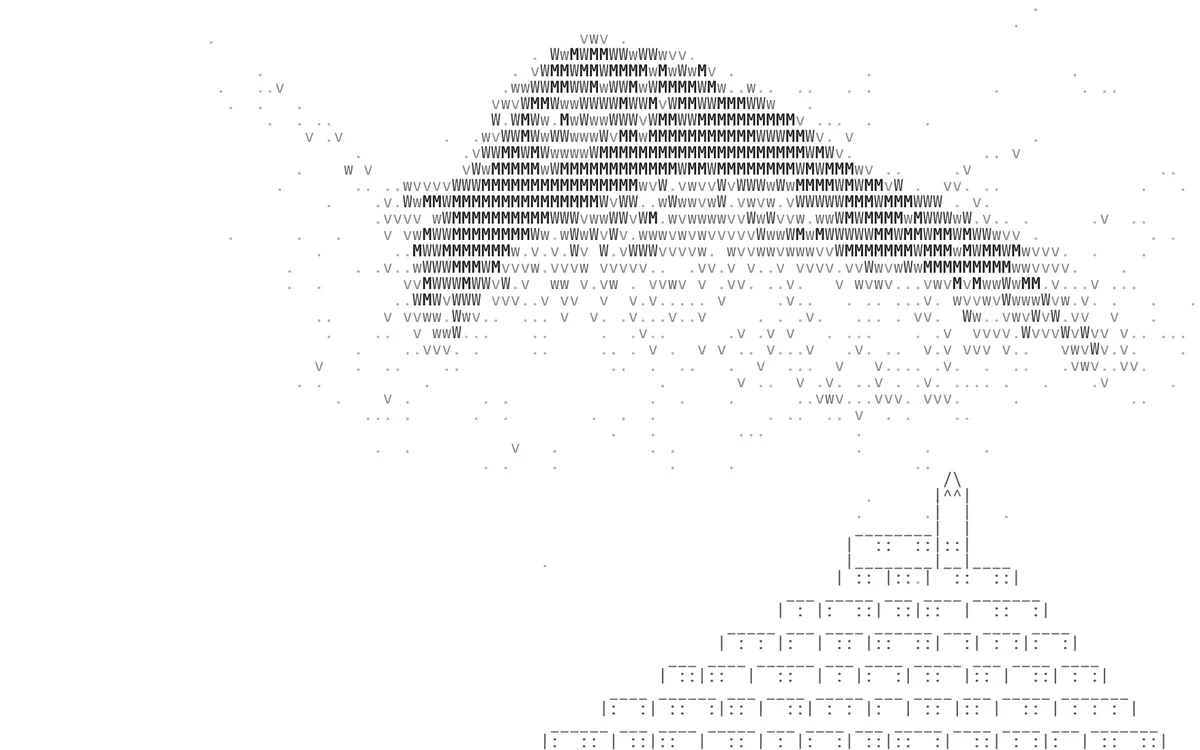
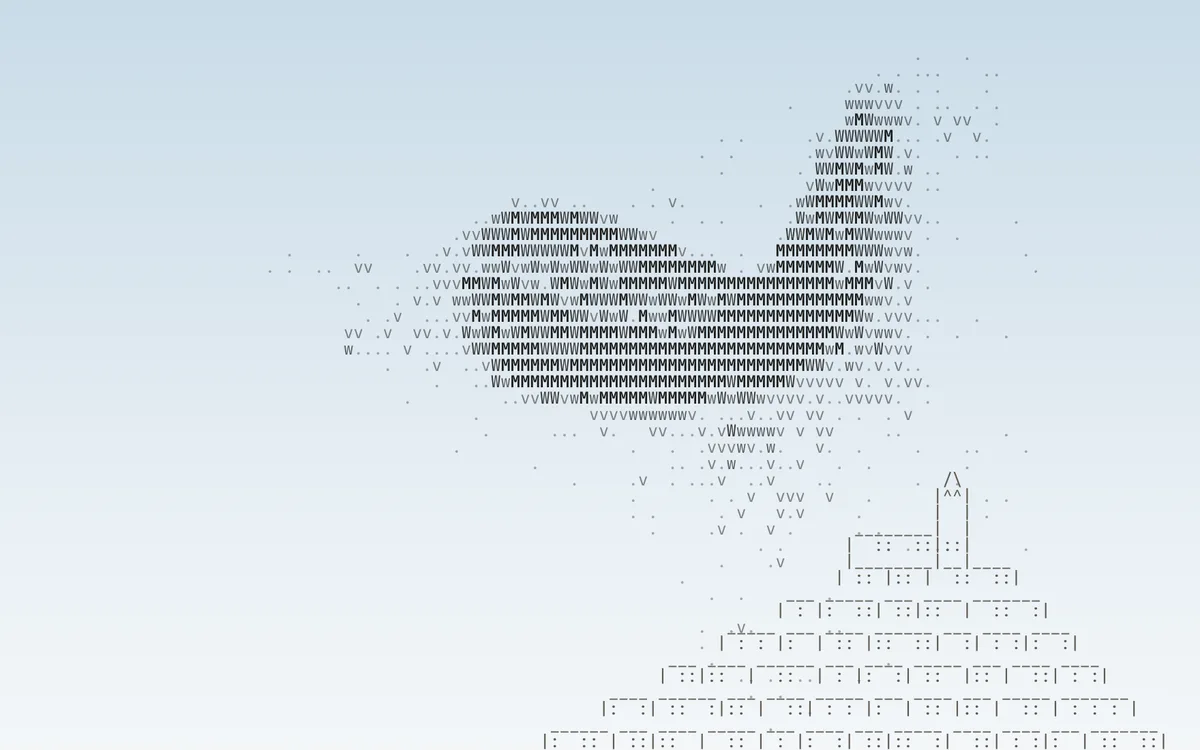
Murmuration : un ciel bleu pâle, en dégradé vers l'horizon, au lieu du blanc

diff --git a/src/content/content.ts b/src/content/content.ts
@@ -98,7 +98,7 @@ export const projects: Project[] = [
     kind: 'Animation ASCII',
     stack: ['TypeScript'],
     image: '/shots/murmuration.webp', // capture de la page, en plein vol
-    alt: 'Sur une page blanche, un grand nuage d’oiseaux dessiné en caractères (des points, des v, des W plus foncés là où ils se croisent) au-dessus d’un village perché, son clocher et ses maisons en escalier, en bas à droite.',
+    alt: 'Sur un ciel bleu pâle, un grand nuage d’oiseaux dessiné en caractères (des points, des v, des W plus foncés là où ils se croisent) au-dessus d’un village perché, son clocher et ses maisons en escalier, en bas à droite.',
     // Une page de ce site, à l'adresse /murmuration (lien relatif : il marche aussi en local)
     demo: '/murmuration/',
     code: 'https://github.com/garancewetz/portfolio-2026/tree/main/src/features/murmuration',

diff --git a/src/features/murmuration/murmuration.css b/src/features/murmuration/murmuration.css
@@ -1,10 +1,13 @@
-/* ——— Murmuration : le ciel en caractères sur toute la page, le village perché en bas à droite. En encre, sur une
-   page blanche ; rien d'autre. ——— */
+/* ——— Murmuration : le ciel en caractères sur toute la page, le village perché en bas à droite. En encre, sur un
+   ciel bleu pâle ; rien d'autre. ——— */
 @import '@/styles/base.css';
 
-/* (une page blanche, rien d'autre : du blanc pur, pas le papier du site) */
+/* le ciel : un bleu léger en haut, qui pâlit vers l'horizon (le bas de la page), comme un vrai ciel */
 :root {
-  --bg: #fff;
+  --bg: #e9f0f5;
+}
+html {
+  background: linear-gradient(to bottom, #c9dbe8, #e9f0f5 70%, #f3f6f8);
 }
 
 html,

diff --git a/murmuration/index.html b/murmuration/index.html
@@ -8,7 +8,7 @@
     <meta name="viewport" content="width=device-width, initial-scale=1.0" />
     <title>Murmuration — Garance Wetzel</title>
     <meta name="description" content="Une murmuration d’étourneaux en ASCII, au-dessus d’un village perché." />
-    <meta name="theme-color" content="#ffffff" />
+    <meta name="theme-color" content="#c9dbe8" />
     <link rel="canonical" href="https://garancewetz.dev/murmuration" />
     <link rel="preconnect" href="https://fonts.googleapis.com" />
     <link rel="preconnect" href="https://fonts.gstatic.com" crossorigin />
